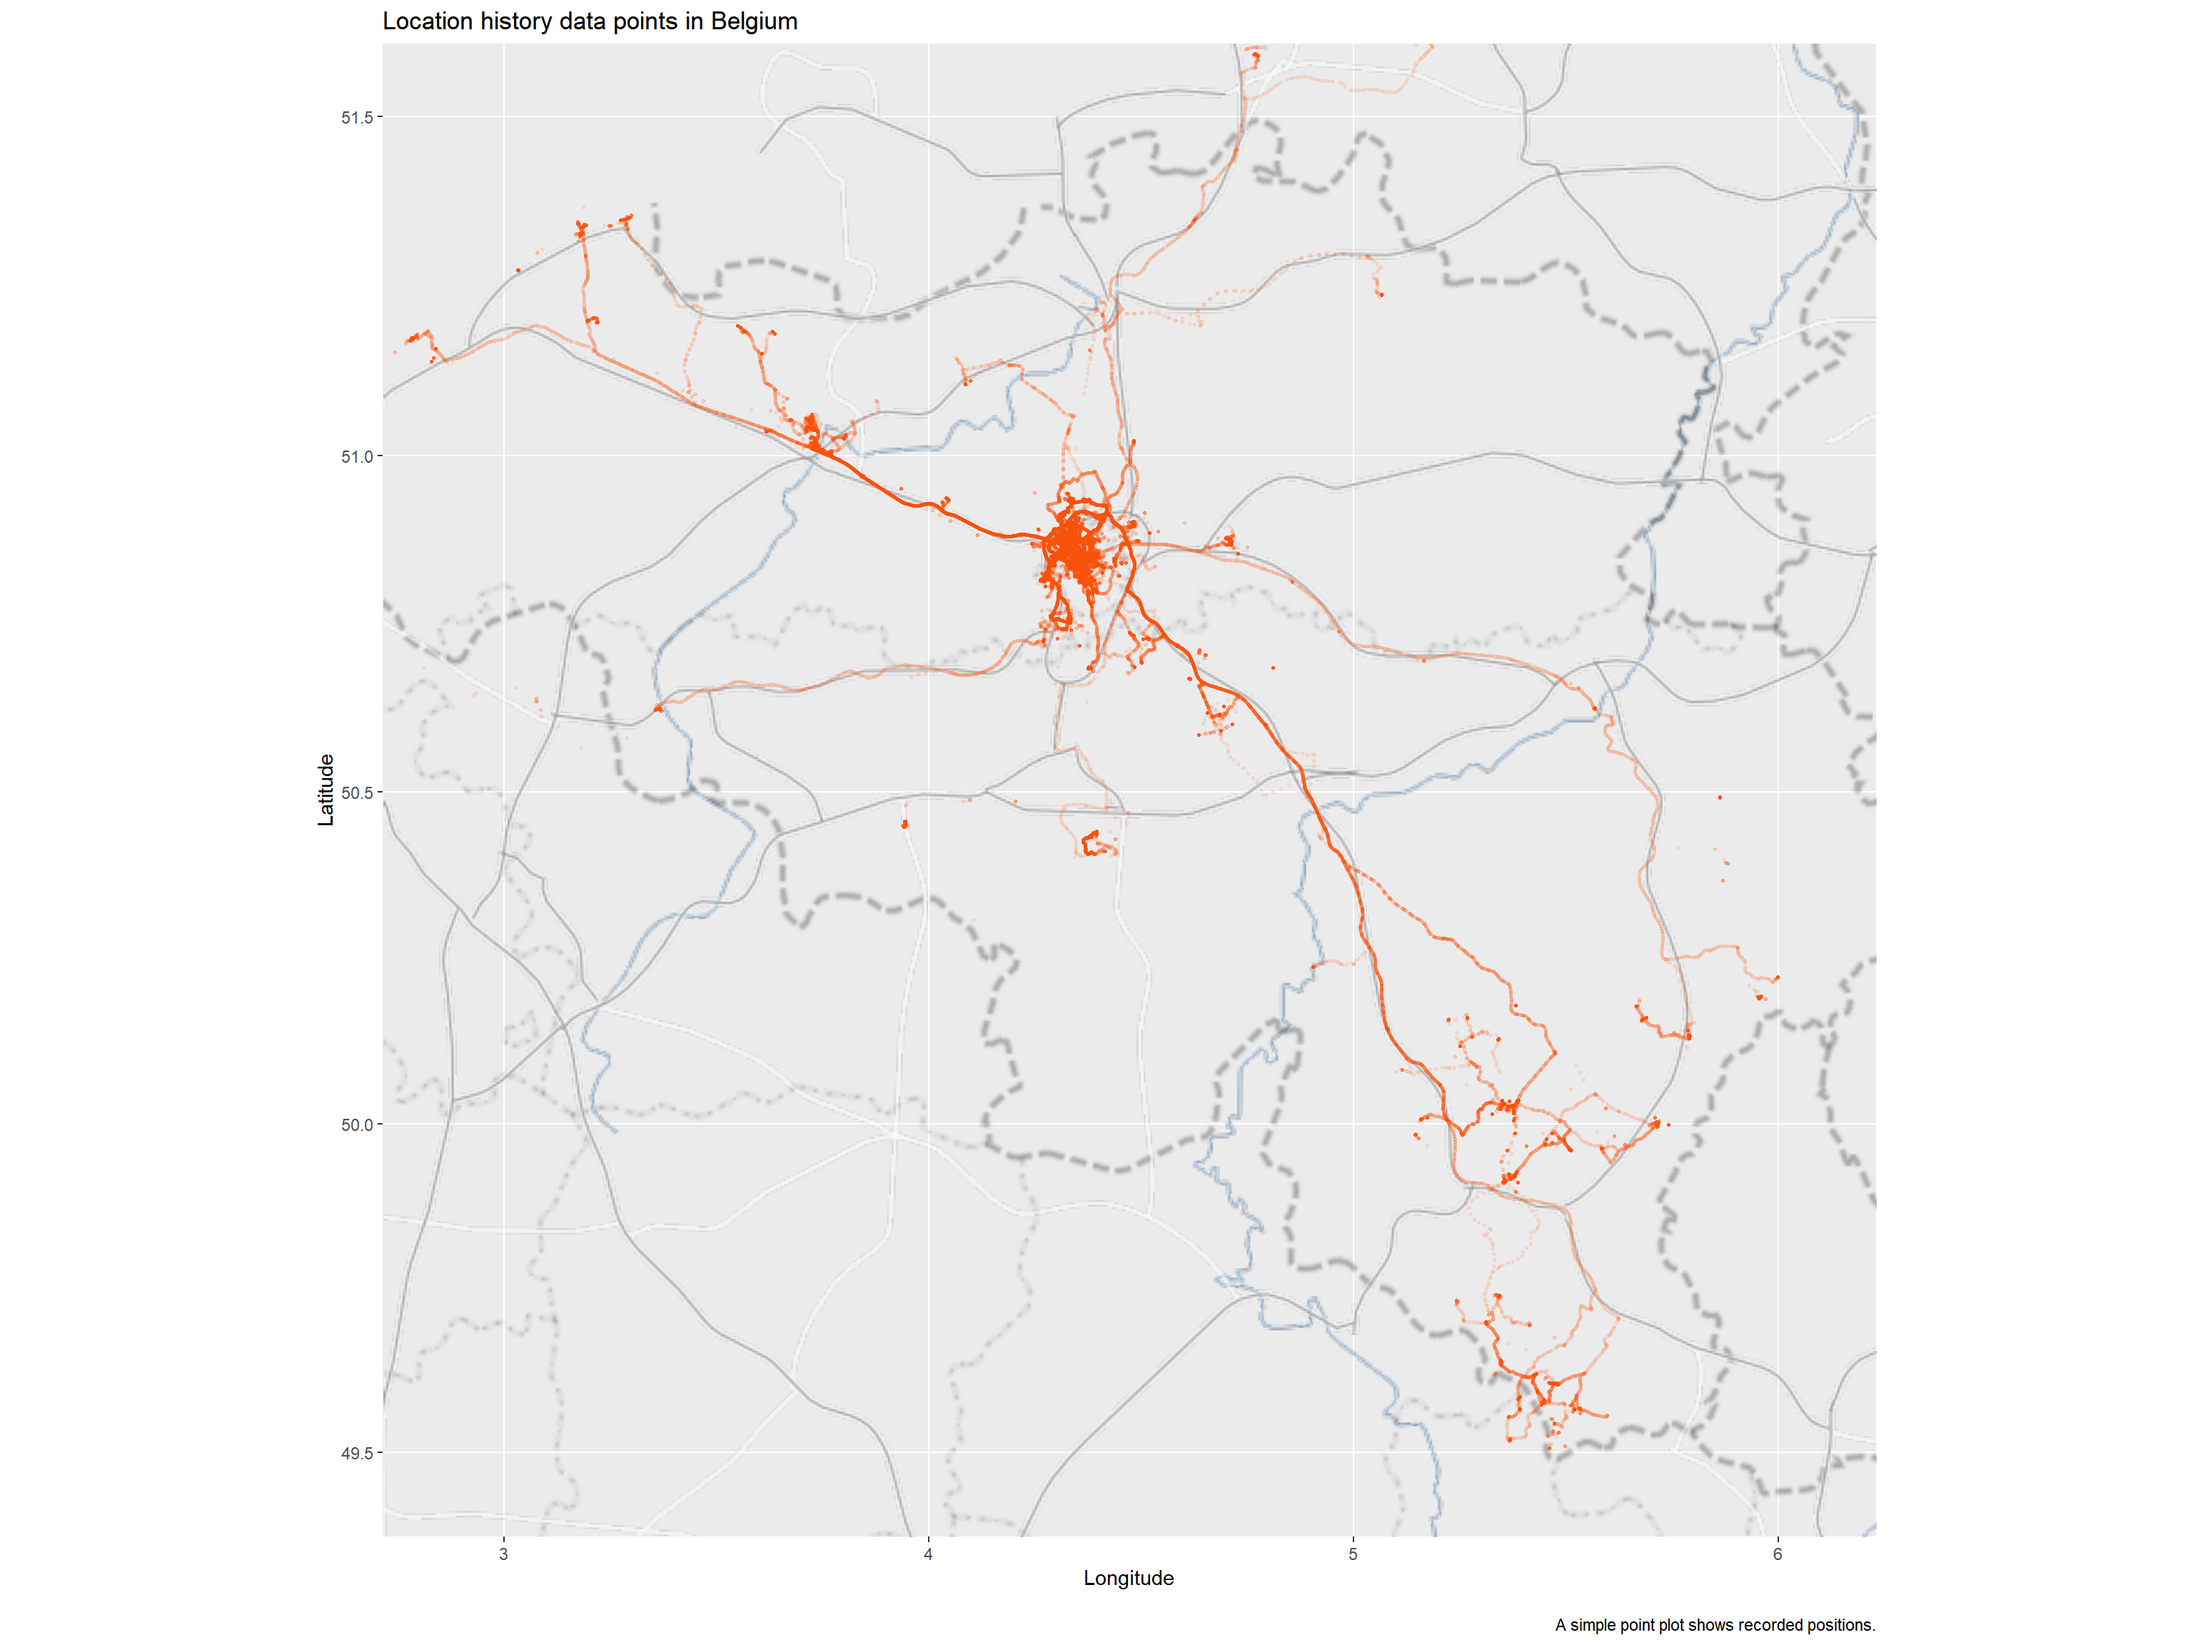
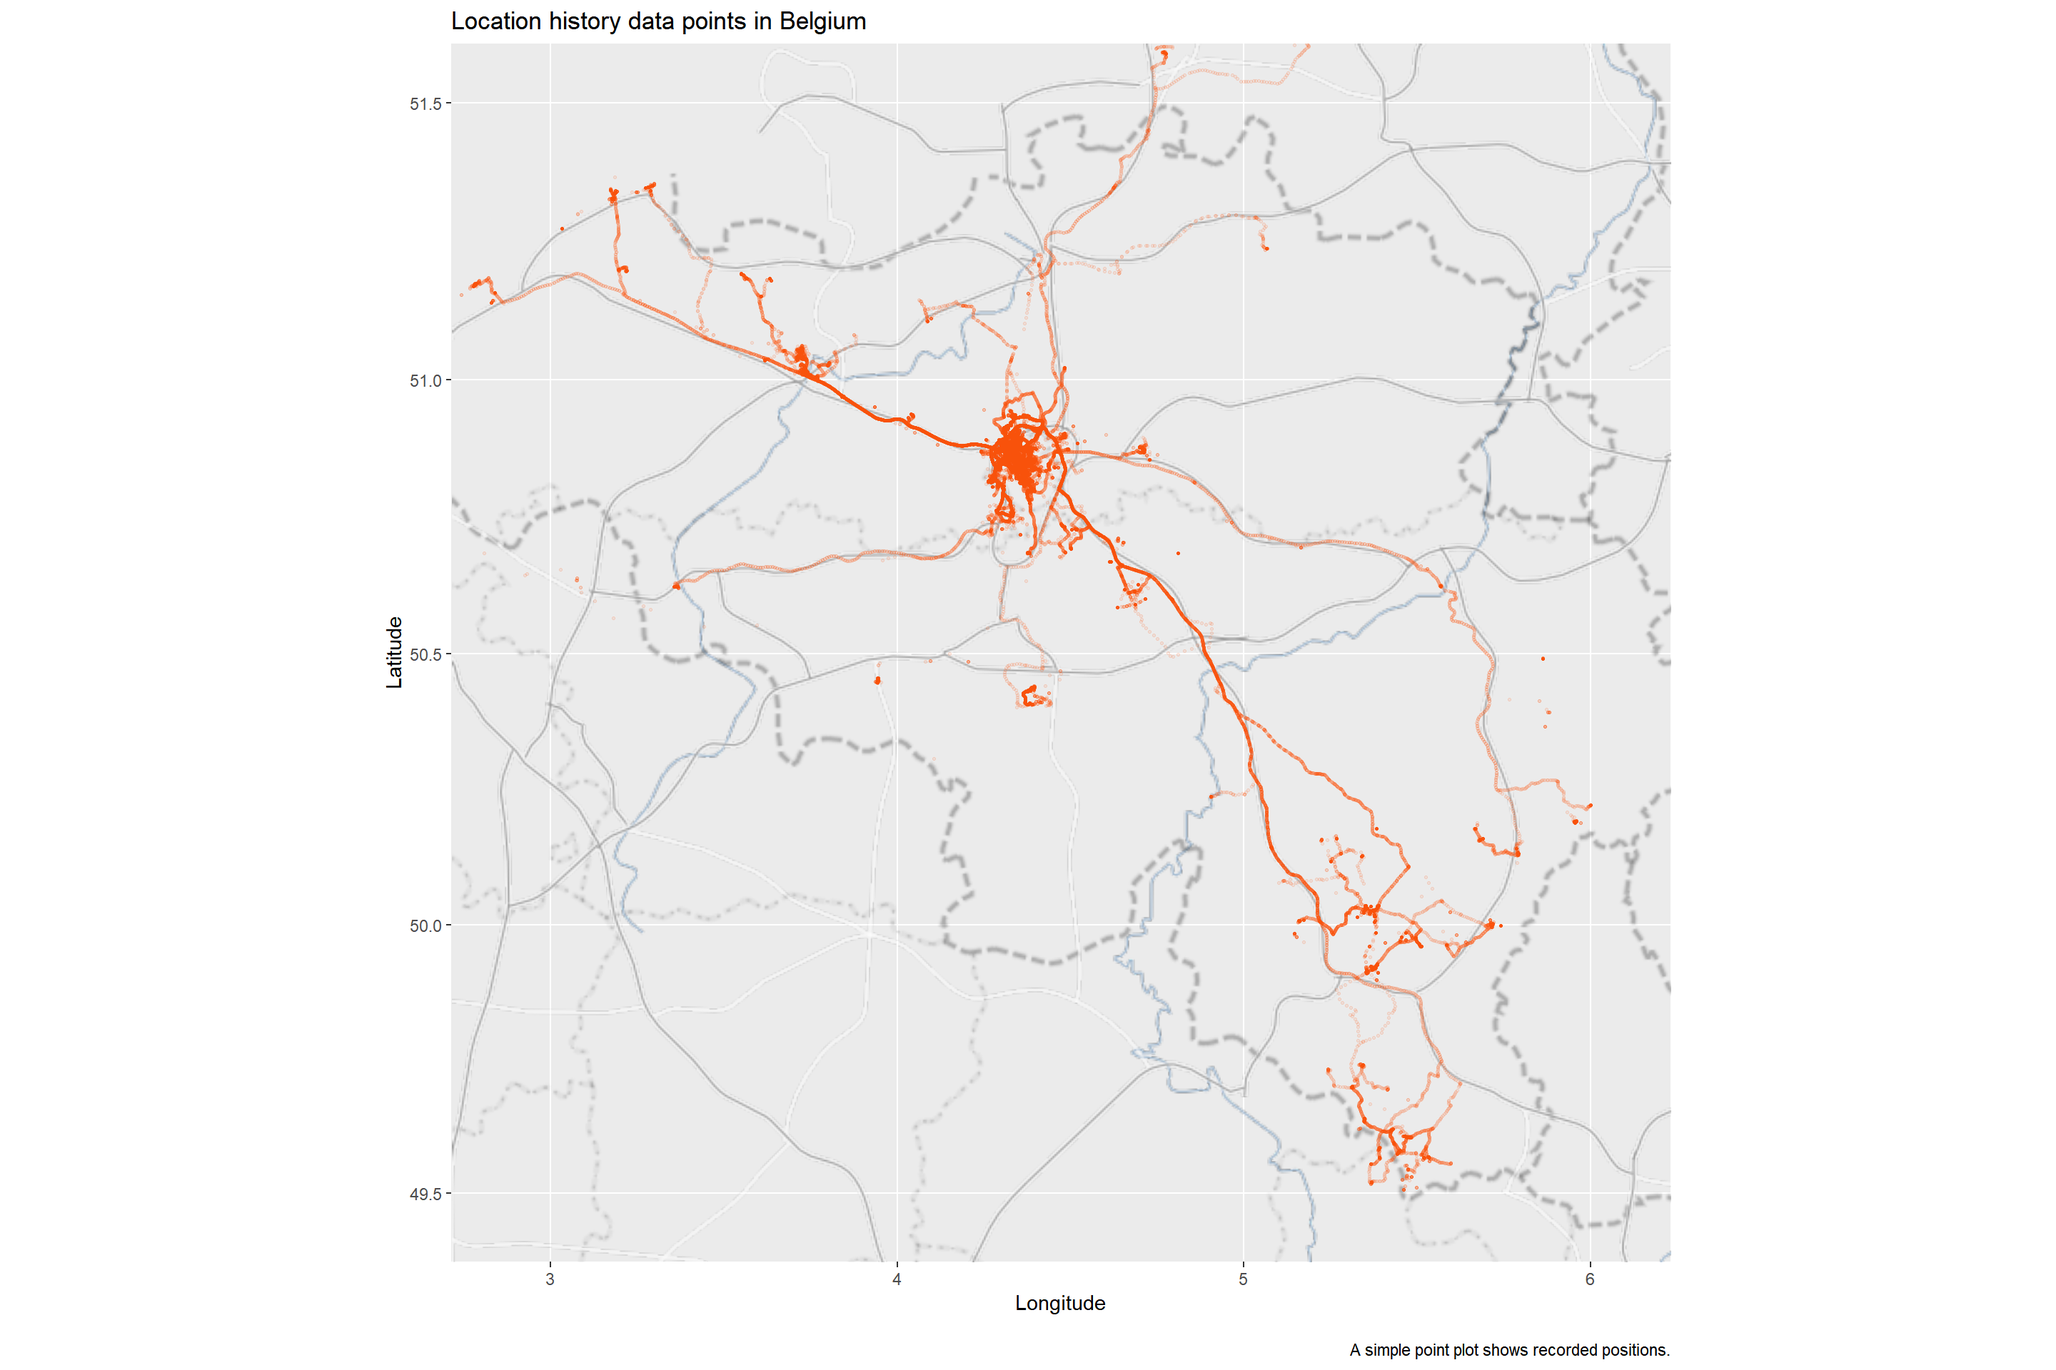
usual

diff --git a/public/tags/geocoding/index.html b/public/tags/geocoding/index.html
@@ -4,11 +4,11 @@
 <meta charset="UTF-8" />
 <meta name="viewport" content="width=device-width, initial-scale=1"/>
 
-<title>Tags | bad to the code</title>
+<title>Geocoding | bad to the code</title>
 
-<meta property='og:title' content='Tags - bad to the code'>
+<meta property='og:title' content='Tag: Geocoding - bad to the code'>
 <meta property='og:description' content=''>
-<meta property='og:url' content='/tags/'>
+<meta property='og:url' content='/tags/geocoding/'>
 <meta property='og:site_name' content='bad to the code'>
 <meta property='og:type' content='website'><meta property='og:image' content='https://www.gravatar.com/avatar/27975dbeb944f4c0ff7b7494d54e8685?s=256'><meta property='article:section' content='Tags'><meta property='og:updated_time' content='2019-03-30T00:00:00Z'/><meta name='twitter:card' content='summary'><meta name='twitter:site' content='@WilliamBourgeoi'><meta name='twitter:creator' content='@WilliamBourgeoi'>
 
@@ -89,59 +89,28 @@
     <article>
       <div class="subtitle tags is-6 is-pulled-right">
         
-      </div>
-      <h2 class="subtitle is-6">March 30, 2019</h2>
-      <h1 class="title"><a href="/tags/geocoding/">Geocoding</a></h1>
-      <div class="content">
         
-        
-      </div>
-    </article>
-    
-    <article>
-      <div class="subtitle tags is-6 is-pulled-right">
-        
-      </div>
-      <h2 class="subtitle is-6">March 30, 2019</h2>
-      <h1 class="title"><a href="/tags/google/">Google</a></h1>
-      <div class="content">
-        
-        
-      </div>
-    </article>
-    
-    <article>
-      <div class="subtitle tags is-6 is-pulled-right">
-        
-      </div>
-      <h2 class="subtitle is-6">July 23, 2015</h2>
-      <h1 class="title"><a href="/tags/plot/">Plot</a></h1>
-      <div class="content">
-        
-        
-      </div>
-    </article>
-    
-    <article>
-      <div class="subtitle tags is-6 is-pulled-right">
+<a class="subtitle is-6" href="/tags/r-markdown">#R Markdown</a>
+
+
+
+  
+  | <a class="subtitle is-6" href="/tags/google">#Google</a>
+  
+  | <a class="subtitle is-6" href="/tags/geocoding">#Geocoding</a>
+  
+
         
       </div>
       <h2 class="subtitle is-6">March 30, 2019</h2>
-      <h1 class="title"><a href="/tags/r-markdown/">R Markdown</a></h1>
+      <h1 class="title"><a href="/post/google-location-tracking/">google location tracking</a></h1>
       <div class="content">
+        Biking to work this week I was wondering if I had not gotten slower and if my commute was not taking longer than before. Not being a regular user of Strava or a similar app, I wondered if I could find an answer to that question using my Google location history.
+So I downloaded the data, that comes in json format, and had a go at it. You can download your Google location data from your Google account.
         
-        
-      </div>
-    </article>
-    
-    <article>
-      <div class="subtitle tags is-6 is-pulled-right">
-        
-      </div>
-      <h2 class="subtitle is-6">July 23, 2015</h2>
-      <h1 class="title"><a href="/tags/regression/">Regression</a></h1>
-      <div class="content">
-        
+        <a class="button is-link" href="/post/google-location-tracking/" style="height:28px">
+          Read more
+        </a>
         
       </div>
     </article>

diff --git a/public/tags/google/index.html b/public/tags/google/index.html
@@ -4,11 +4,11 @@
 <meta charset="UTF-8" />
 <meta name="viewport" content="width=device-width, initial-scale=1"/>
 
-<title>Tags | bad to the code</title>
+<title>Google | bad to the code</title>
 
-<meta property='og:title' content='Tags - bad to the code'>
+<meta property='og:title' content='Tag: Google - bad to the code'>
 <meta property='og:description' content=''>
-<meta property='og:url' content='/tags/'>
+<meta property='og:url' content='/tags/google/'>
 <meta property='og:site_name' content='bad to the code'>
 <meta property='og:type' content='website'><meta property='og:image' content='https://www.gravatar.com/avatar/27975dbeb944f4c0ff7b7494d54e8685?s=256'><meta property='article:section' content='Tags'><meta property='og:updated_time' content='2019-03-30T00:00:00Z'/><meta name='twitter:card' content='summary'><meta name='twitter:site' content='@WilliamBourgeoi'><meta name='twitter:creator' content='@WilliamBourgeoi'>
 
@@ -89,59 +89,28 @@
     <article>
       <div class="subtitle tags is-6 is-pulled-right">
         
-      </div>
-      <h2 class="subtitle is-6">March 30, 2019</h2>
-      <h1 class="title"><a href="/tags/geocoding/">Geocoding</a></h1>
-      <div class="content">
         
-        
-      </div>
-    </article>
-    
-    <article>
-      <div class="subtitle tags is-6 is-pulled-right">
-        
-      </div>
-      <h2 class="subtitle is-6">March 30, 2019</h2>
-      <h1 class="title"><a href="/tags/google/">Google</a></h1>
-      <div class="content">
-        
-        
-      </div>
-    </article>
-    
-    <article>
-      <div class="subtitle tags is-6 is-pulled-right">
-        
-      </div>
-      <h2 class="subtitle is-6">July 23, 2015</h2>
-      <h1 class="title"><a href="/tags/plot/">Plot</a></h1>
-      <div class="content">
-        
-        
-      </div>
-    </article>
-    
-    <article>
-      <div class="subtitle tags is-6 is-pulled-right">
+<a class="subtitle is-6" href="/tags/r-markdown">#R Markdown</a>
+
+
+
+  
+  | <a class="subtitle is-6" href="/tags/google">#Google</a>
+  
+  | <a class="subtitle is-6" href="/tags/geocoding">#Geocoding</a>
+  
+
         
       </div>
       <h2 class="subtitle is-6">March 30, 2019</h2>
-      <h1 class="title"><a href="/tags/r-markdown/">R Markdown</a></h1>
+      <h1 class="title"><a href="/post/google-location-tracking/">google location tracking</a></h1>
       <div class="content">
+        Biking to work this week I was wondering if I had not gotten slower and if my commute was not taking longer than before. Not being a regular user of Strava or a similar app, I wondered if I could find an answer to that question using my Google location history.
+So I downloaded the data, that comes in json format, and had a go at it. You can download your Google location data from your Google account.
         
-        
-      </div>
-    </article>
-    
-    <article>
-      <div class="subtitle tags is-6 is-pulled-right">
-        
-      </div>
-      <h2 class="subtitle is-6">July 23, 2015</h2>
-      <h1 class="title"><a href="/tags/regression/">Regression</a></h1>
-      <div class="content">
-        
+        <a class="button is-link" href="/post/google-location-tracking/" style="height:28px">
+          Read more
+        </a>
         
       </div>
     </article>

diff --git a/public/post/google-location-tracking/index.html b/public/post/google-location-tracking/index.html
@@ -11,7 +11,7 @@
 So I downloaded the data, that comes in json format, and had a go at it. You can download your Google location data from your Google account.'>
 <meta property='og:url' content='/post/google-location-tracking/'>
 <meta property='og:site_name' content='bad to the code'>
-<meta property='og:type' content='article'><meta property='og:image' content='https://www.gravatar.com/avatar/27975dbeb944f4c0ff7b7494d54e8685?s=256'><meta property='article:section' content='Post'><meta property='article:tag' content='R Markdown'><meta property='article:published_time' content='2019-03-30T00:00:00Z'/><meta property='article:modified_time' content='2019-03-30T00:00:00Z'/><meta name='twitter:card' content='summary'><meta name='twitter:site' content='@WilliamBourgeoi'><meta name='twitter:creator' content='@WilliamBourgeoi'>
+<meta property='og:type' content='article'><meta property='og:image' content='https://www.gravatar.com/avatar/27975dbeb944f4c0ff7b7494d54e8685?s=256'><meta property='article:section' content='Post'><meta property='article:tag' content='R Markdown'><meta property='article:tag' content='Google'><meta property='article:tag' content='Geocoding'><meta property='article:published_time' content='2019-03-30T00:00:00Z'/><meta property='article:modified_time' content='2019-03-30T00:00:00Z'/><meta name='twitter:card' content='summary'><meta name='twitter:site' content='@WilliamBourgeoi'><meta name='twitter:creator' content='@WilliamBourgeoi'>
 
 
 <link href="/index.xml" rel="alternate" type="application/rss+xml" title="bad to the code" />
@@ -91,6 +91,12 @@ So I downloaded the data, that comes in json format, and had a go at it. You can
 <a class="subtitle is-6" href="/tags/r-markdown">#R Markdown</a>
 
 
+
+  
+  | <a class="subtitle is-6" href="/tags/google">#Google</a>
+  
+  | <a class="subtitle is-6" href="/tags/geocoding">#Geocoding</a>
+  
 
       
     </div>
@@ -202,7 +208,7 @@ bb</code></pre>
     y = &quot;Latitude&quot;, 
     title = &quot;Location history data points in Belgium&quot;,
     caption = &quot;\nA simple point plot shows recorded positions.&quot;)</code></pre>
-<p><img src="/post/2019-03-30-google-location-tracking_files/figure-html/unnamed-chunk-13-1.png" width="1536" /></p>
+<p><img src="/post/2019-03-30-google-location-tracking_files/figure-html/unnamed-chunk-13-1.png" width="1440" /></p>
 <p>Orange lines are my movements. A rock festival to the east of Antwerp, some visits to the coast, to my home city Ghent, a marriage in the west, biking and text mining in Leuven, and hikes in the woods of the south. Looks about right. And yes, I live and work in Brussels.</p>
 
       

diff --git a/content/post/2019-03-30-google-location-tracking.html b/content/post/2019-03-30-google-location-tracking.html
@@ -7,6 +7,8 @@ categories:
   - geocoding
 tags:
   - R Markdown
+  - Google
+  - Geocoding
 ---
 
 
@@ -112,5 +114,5 @@ bb</code></pre>
     y = &quot;Latitude&quot;, 
     title = &quot;Location history data points in Belgium&quot;,
     caption = &quot;\nA simple point plot shows recorded positions.&quot;)</code></pre>
-<p><img src="/post/2019-03-30-google-location-tracking_files/figure-html/unnamed-chunk-13-1.png" width="1536" /></p>
+<p><img src="/post/2019-03-30-google-location-tracking_files/figure-html/unnamed-chunk-13-1.png" width="1440" /></p>
 <p>Orange lines are my movements. A rock festival to the east of Antwerp, some visits to the coast, to my home city Ghent, a marriage in the west, biking and text mining in Leuven, and hikes in the woods of the south. Looks about right. And yes, I live and work in Brussels.</p>

diff --git a/public/tags/geocoding/page/1/index.html b/public/tags/geocoding/page/1/index.html
@@ -1,0 +1,1 @@
+<!DOCTYPE html><html><head><title>/tags/geocoding/</title><link rel="canonical" href="/tags/geocoding/"/><meta name="robots" content="noindex"><meta charset="utf-8" /><meta http-equiv="refresh" content="0; url=/tags/geocoding/" /></head></html>

diff --git a/public/tags/google/page/1/index.html b/public/tags/google/page/1/index.html
@@ -1,0 +1,1 @@
+<!DOCTYPE html><html><head><title>/tags/google/</title><link rel="canonical" href="/tags/google/"/><meta name="robots" content="noindex"><meta charset="utf-8" /><meta http-equiv="refresh" content="0; url=/tags/google/" /></head></html>

diff --git a/public/index.html b/public/index.html
@@ -95,6 +95,12 @@
 
 
 
+  
+  | <a class="subtitle is-6" href="/tags/google">#Google</a>
+  
+  | <a class="subtitle is-6" href="/tags/geocoding">#Geocoding</a>
+  
+
         
       </div>
       <h2 class="subtitle is-6">March 30, 2019</h2>

diff --git a/public/post/index.html b/public/post/index.html
@@ -94,6 +94,12 @@
 
 
 
+  
+  | <a class="subtitle is-6" href="/tags/google">#Google</a>
+  
+  | <a class="subtitle is-6" href="/tags/geocoding">#Geocoding</a>
+  
+
         
       </div>
       <h2 class="subtitle is-6">March 30, 2019</h2>

diff --git a/public/tags/r-markdown/index.html b/public/tags/r-markdown/index.html
@@ -94,6 +94,12 @@
 
 
 
+  
+  | <a class="subtitle is-6" href="/tags/google">#Google</a>
+  
+  | <a class="subtitle is-6" href="/tags/geocoding">#Geocoding</a>
+  
+
         
       </div>
       <h2 class="subtitle is-6">March 30, 2019</h2>
